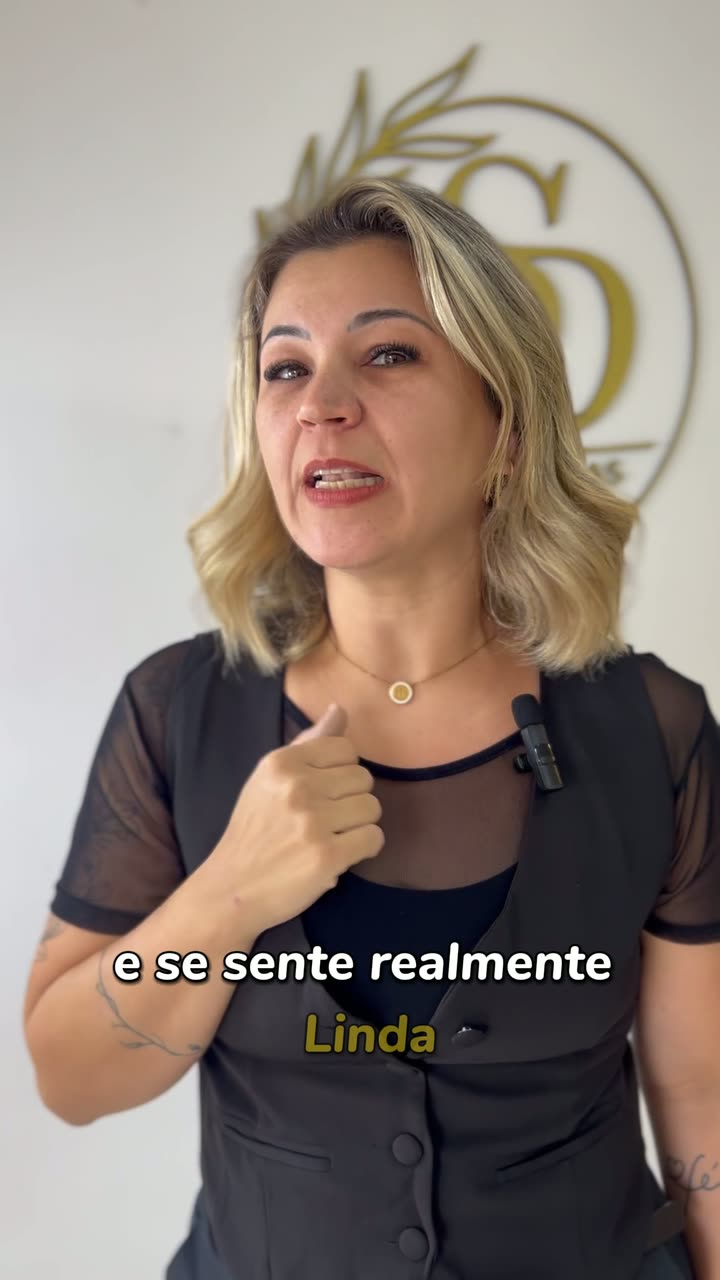
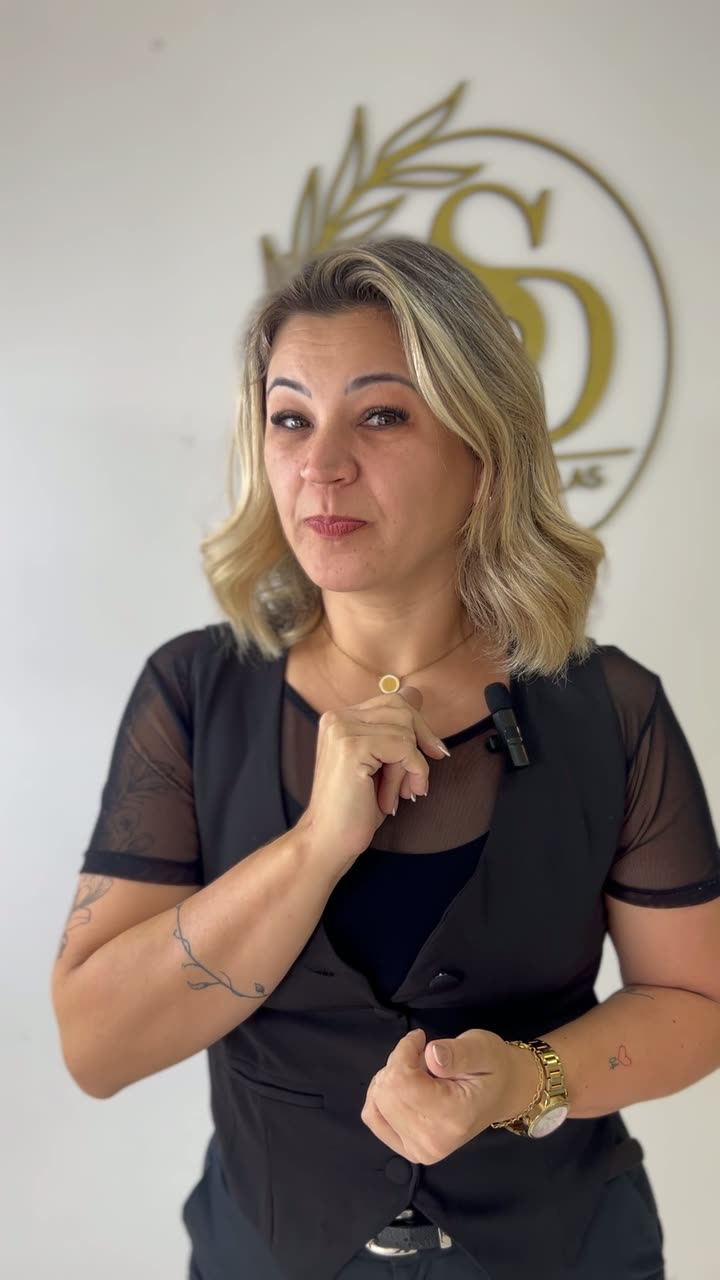
Corrige cache stale, capas ruins, remove frase do hero e reordena projetos
Bug de cache (causa provavel do que o usuario viu):
- css/js tinham max-age=3600 sem revalidar; apos um deploy, visitantes
  que ja haviam carregado a pagina continuavam ate 1h com JS antigo
  (numero de contato velho, botao flutuante ausente)
- videos/ estava marcado "immutable" por 1 ano; ao trocar uma capa
  mantendo o mesmo nome de arquivo, o navegador nunca revalidava
- as tres rotas agora usam max-age=0, must-revalidate (css/js) ou
  max-age=3600, must-revalidate (videos) - sempre no maximo 1h stale

Capas corrigidas:
- vivian.jpg: o quadro a 18% da duracao caia em cima de uma legenda
  queimada no video ("e se sente realmente Linda"); novo quadro em 3.3s
- projeto-004.jpg: o quadro caia numa transicao em branco sem conteudo
  reconhecivel; novo quadro em 1.5s mostra a cena real
- build-videos.sh ganhou override por video (3o campo do item) para
  essas escolhas ficarem reprodutiveis

Outros ajustes:
- remove a frase abaixo do CTA do hero
- remove o nome "Vivian" do titulo do projeto (agora "Projeto 003")
  e move esse video para a 3a posicao na sequencia

diff --git a/script.js b/script.js
@@ -51,32 +51,32 @@ const HERO_BG = { src: 'videos/hero.mp4', poster: 'videos/projeto-002.jpg' };
 const VIDEOS = [
   {
     type: 'file',
-    src: 'videos/vivian.mp4',
-    poster: 'videos/vivian.jpg',
-    title: 'Vivian',                 // ► edite
-    category: 'Filmes',              // ► edite
-    desc: 'Retrato em movimento.',   // ► edite
+    src: 'videos/projeto-002.mp4',
+    poster: 'videos/projeto-002.jpg',
+    title: 'Projeto 001',            // ► edite
+    category: 'Marcas',
+    desc: '',
     featured: true,
     order: 1
   },
   {
     type: 'file',
-    src: 'videos/projeto-002.mp4',
-    poster: 'videos/projeto-002.jpg',
+    src: 'videos/projeto-003.mp4',
+    poster: 'videos/projeto-003.jpg',
     title: 'Projeto 002',            // ► edite
-    category: 'Marcas',
+    category: 'Eventos',
     desc: '',
-    featured: true,
+    featured: false,
     order: 2
   },
   {
     type: 'file',
-    src: 'videos/projeto-003.mp4',
-    poster: 'videos/projeto-003.jpg',
+    src: 'videos/vivian.mp4',
+    poster: 'videos/vivian.jpg',
     title: 'Projeto 003',            // ► edite
-    category: 'Eventos',
+    category: 'Filmes',              // ► edite
     desc: '',
-    featured: false,
+    featured: true,
     order: 3
   },
   {

diff --git a/index.html b/index.html
@@ -61,7 +61,6 @@
       <div class="hero__actions">
         <a href="#" class="btn btn--light js-wa">Solicitar orçamento</a>
       </div>
-      <p class="hero__note">Resposta no mesmo dia pelo WhatsApp</p>
     </div>
 
     <div class="hero__scroll" aria-hidden="true">
